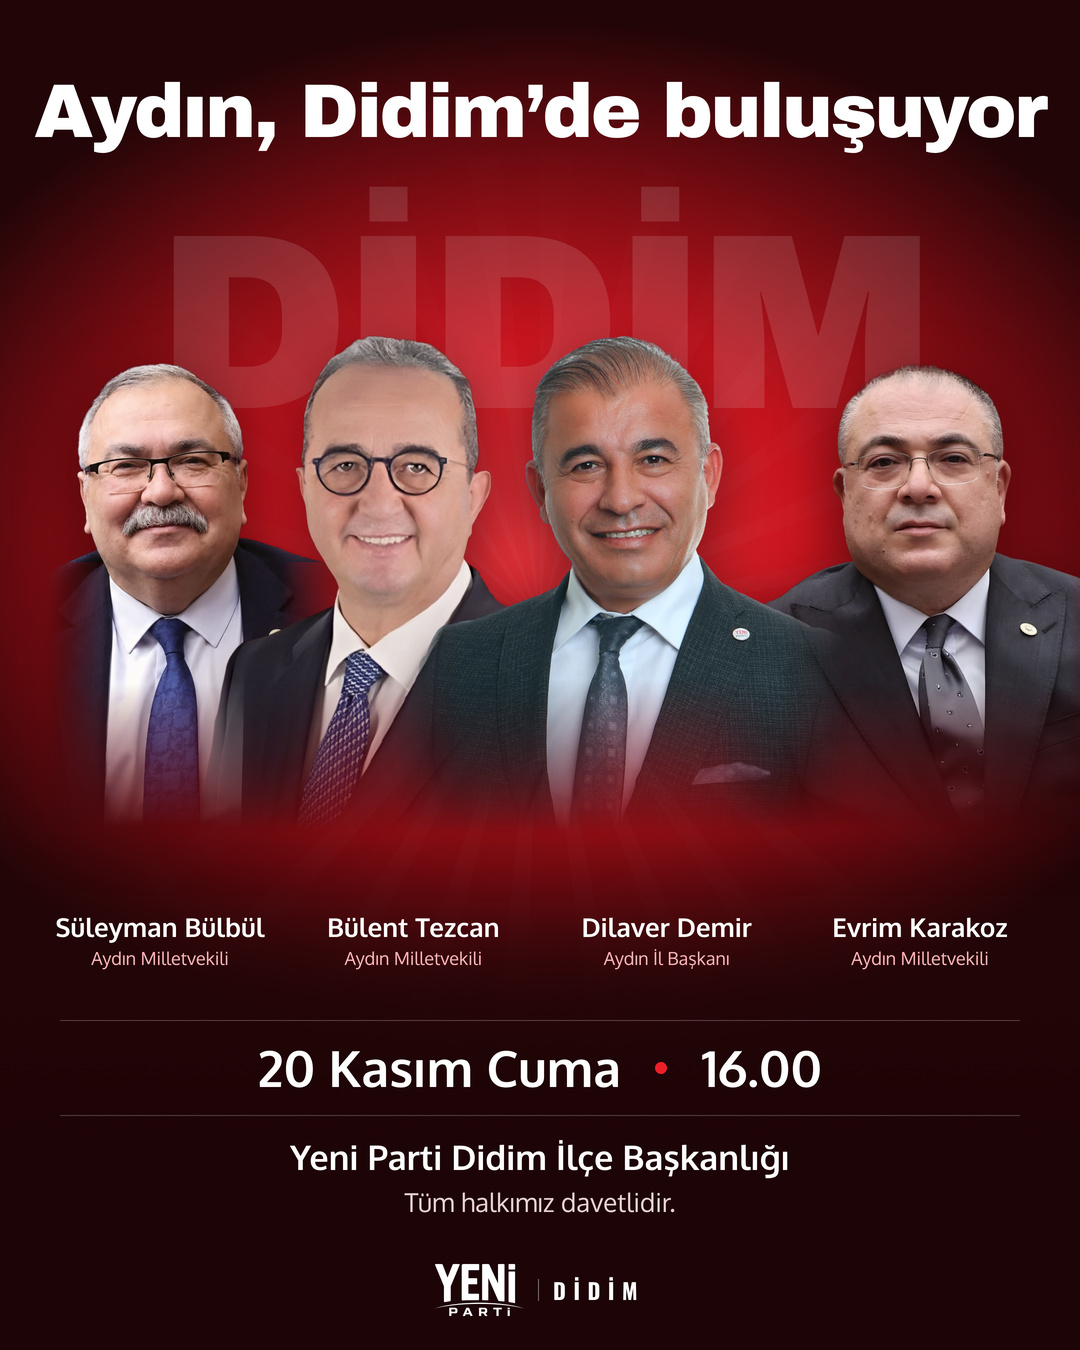
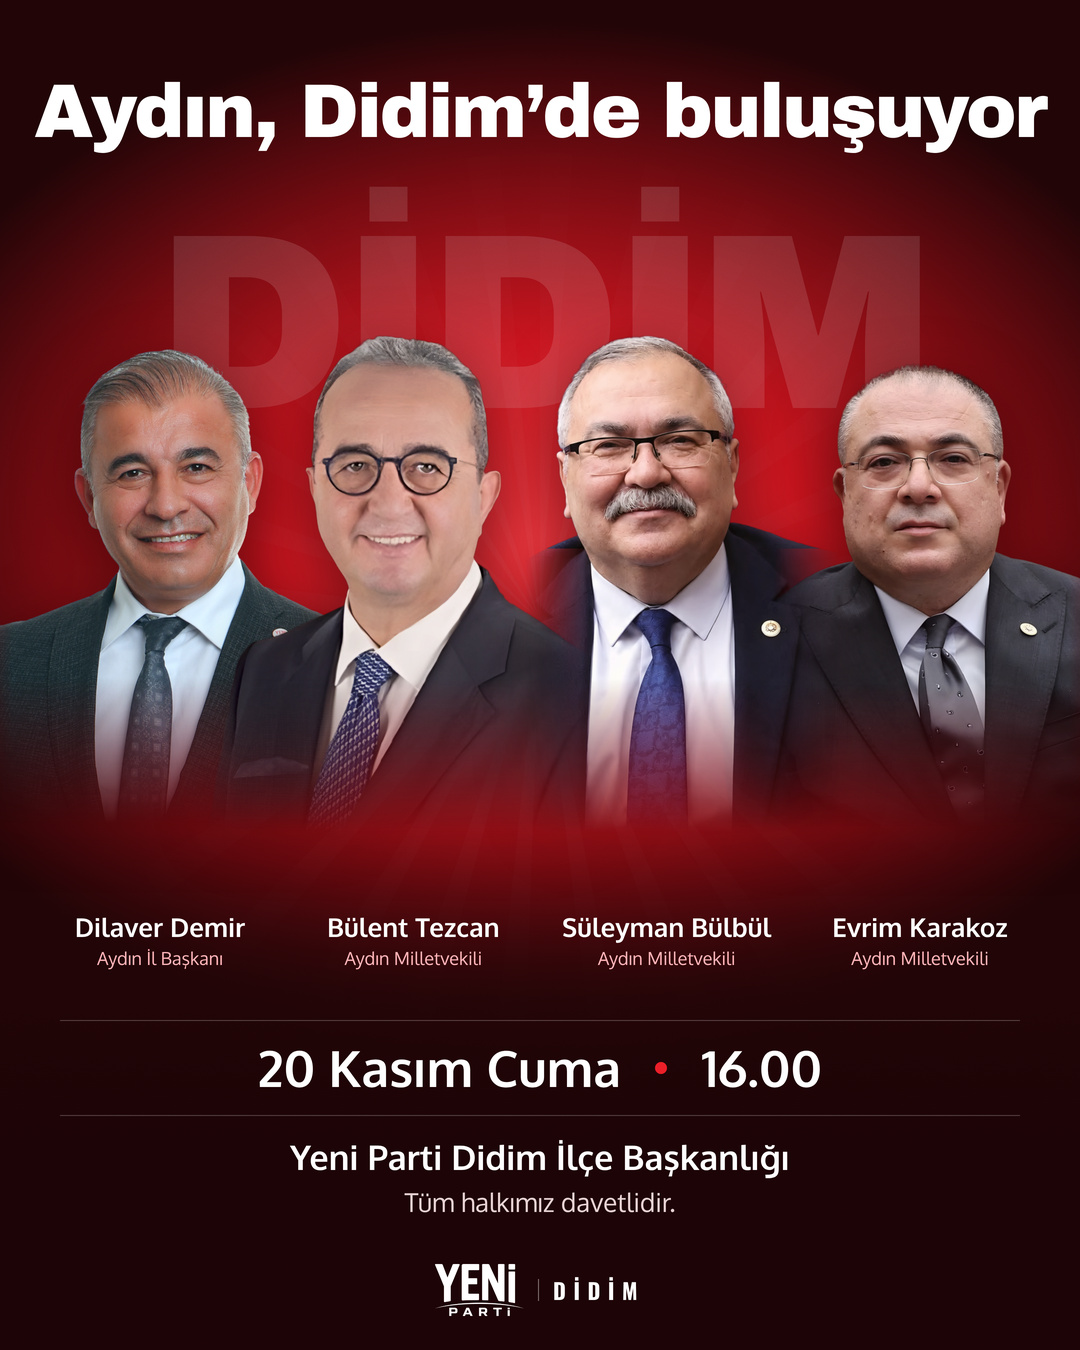
Vekil ziyareti: sıralama Demir, Tezcan, Bülbül, Karakoz
Claude-Session: https://claude.ai/code/session_01SatttGbgBLoCnk9KGLypWv

Changed region(s): [[0.0, 0.2489, 0.7639, 0.6222], [0.5194, 0.6844, 0.7028, 0.7156], [0.0611, 0.6844, 0.2444, 0.7156]]

diff --git a/tasarim/kisisel/vekil-ziyaret/grup.html b/tasarim/kisisel/vekil-ziyaret/grup.html
@@ -27,12 +27,12 @@ background:radial-gradient(700px 520px at 50% 40%,#F2363E 0,#C8141E 38%,#6E0A10 
 <div class="isin"></div>
 <div class="arka">DİDİM</div>
 <div class="ust"><h1>Aydın, Didim’de buluşuyor</h1></div>
-<img class="p" src="bulbul-g.png" style="left:-50px;top:330px;width:420px;z-index:1">
+<img class="p" src="demir-g.png" style="left:-50px;top:315px;width:430px;z-index:1">
 <img class="p" src="karakoz-g.png" style="left:710px;top:330px;width:420px;z-index:1">
-<img class="p" src="tezcan-g.png" style="left:165px;top:300px;width:450px;z-index:2">
-<img class="p" src="demir-g.png" style="left:395px;top:300px;width:450px;z-index:3">
+<img class="p" src="bulbul-g.png" style="left:420px;top:300px;width:450px;z-index:3">
+<img class="p" src="tezcan-g.png" style="left:175px;top:300px;width:450px;z-index:2">
 <div class="alt"></div>
-<div class="isimler"><div><b>Süleyman Bülbül</b><span>Aydın Milletvekili</span></div><div><b>Bülent Tezcan</b><span>Aydın Milletvekili</span></div><div><b>Dilaver Demir</b><span>Aydın İl Başkanı</span></div><div><b>Evrim Karakoz</b><span>Aydın Milletvekili</span></div></div>
+<div class="isimler"><div><b>Dilaver Demir</b><span>Aydın İl Başkanı</span></div><div><b>Bülent Tezcan</b><span>Aydın Milletvekili</span></div><div><b>Süleyman Bülbül</b><span>Aydın Milletvekili</span></div><div><b>Evrim Karakoz</b><span>Aydın Milletvekili</span></div></div>
 <div class="bilgi"><b>20 Kasım Cuma</b><i></i><b>16.00</b></div>
 <div class="yer">Yeni Parti Didim İlçe Başkanlığı<small>Tüm halkımız davetlidir.</small></div>
 <div class="logo"><img src="yp-beyaz.png"><span>DİDİM</span></div>
